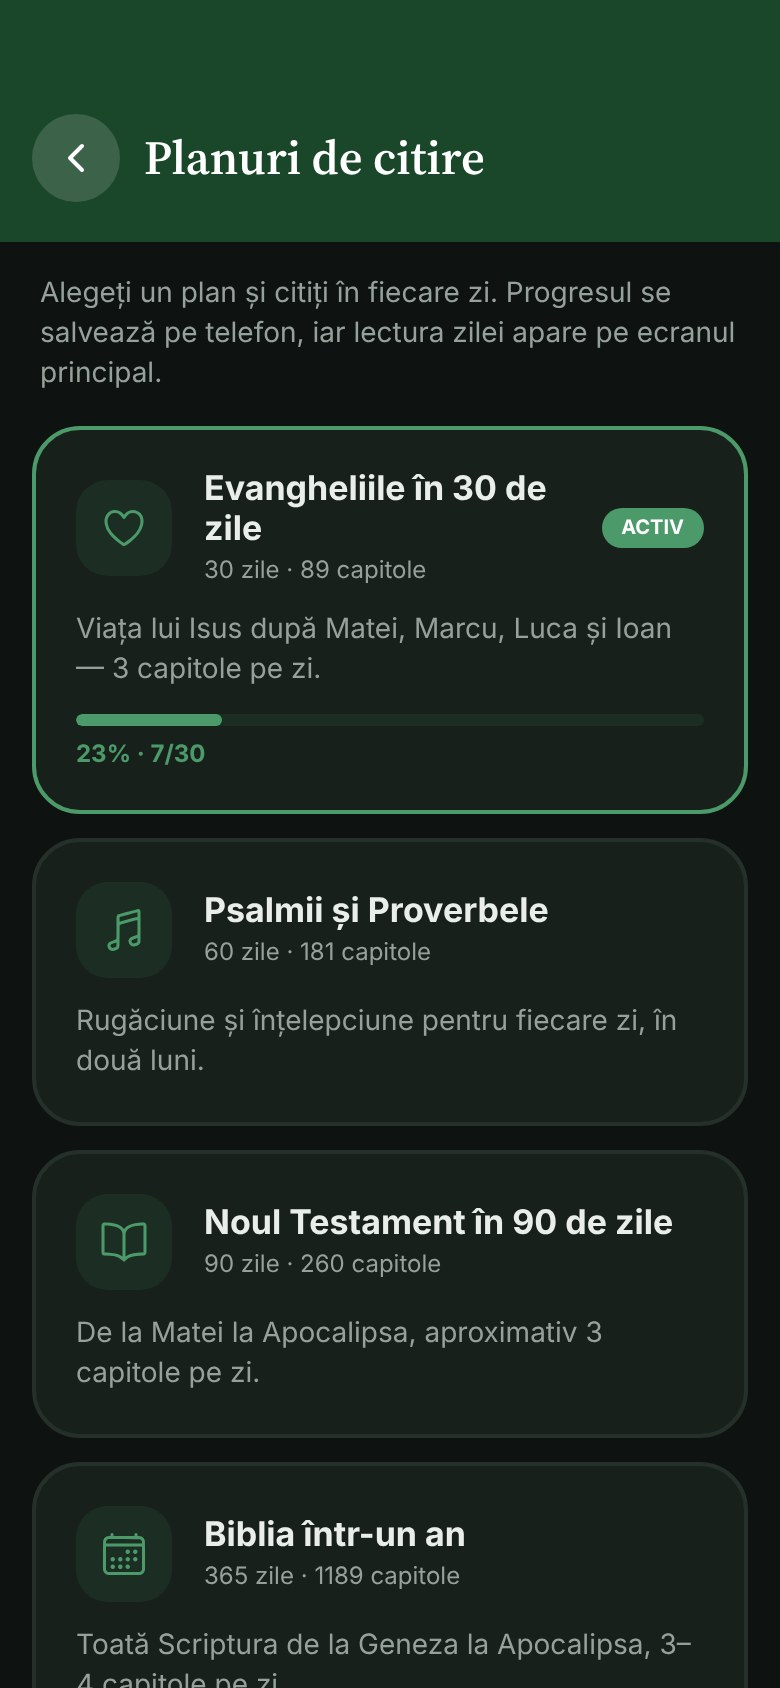
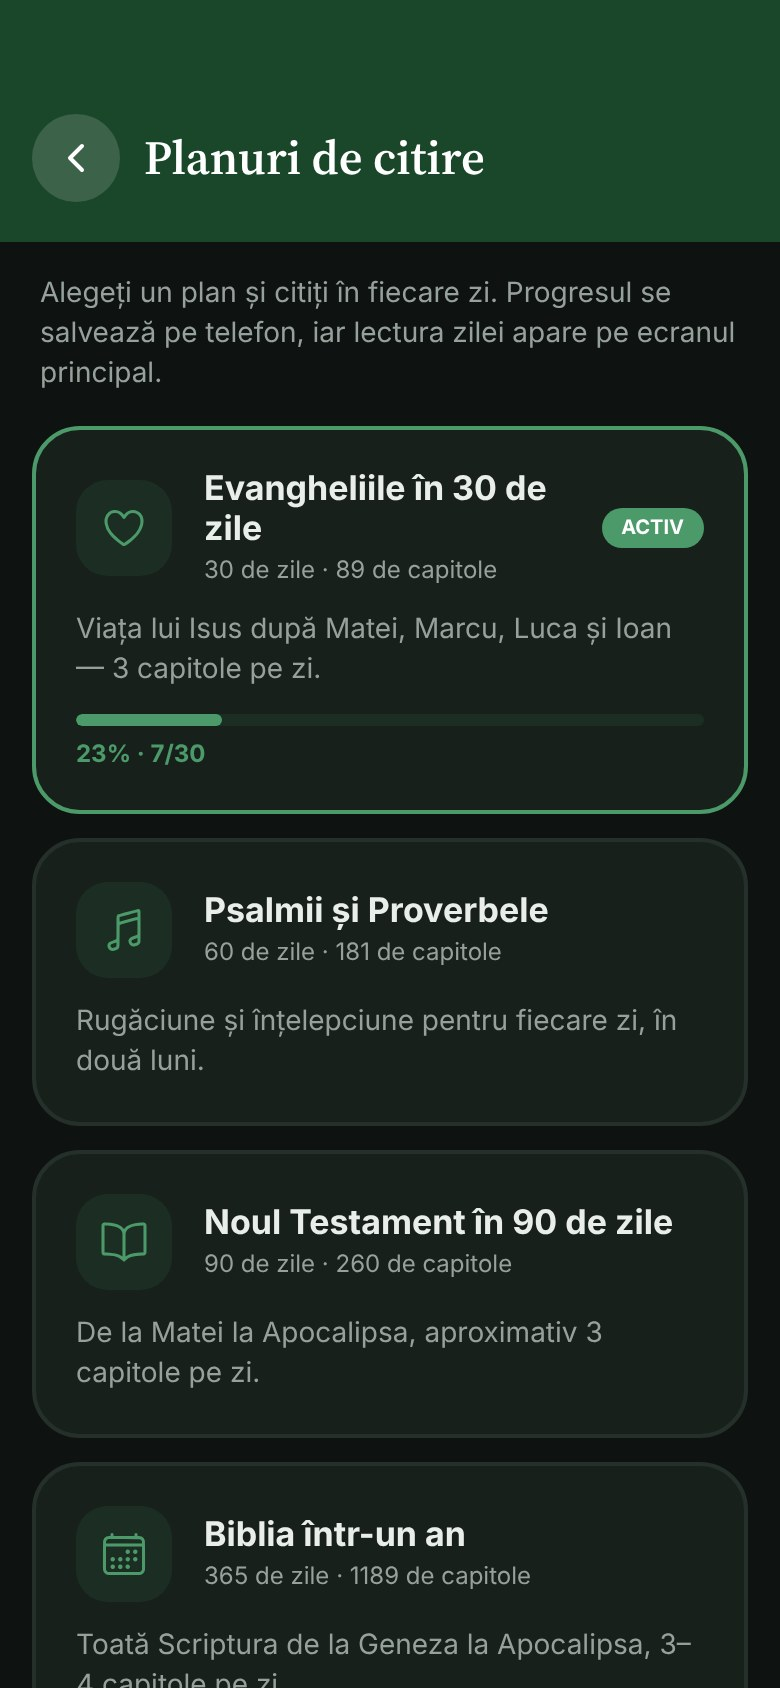
Reparații după verificarea redesign-ului: ecrane mici, rusă, „de” la numere
- Felicitarea se derulează pe ecranele mici sau cu text mărit (butonul nu mai iese din ecran);
  „Vezi realizările” nu mai deschide încă un profil peste cel deschis.
- Cererea de prietenie: când butoanele nu încap lângă nume (rusă, ecrane înguste), trec dedesubt.
- „Cerere trimisă” din listă se micșorează ea, nu numele.
- Realizările: 3 coloane pe telefoanele înguste, ca titlurile să nu se rupă la mijlocul cuvântului.
- Peretele: fără linia goală sub o cerere răspunsă pentru care nu s-a rugat nimeni.
- Profilul: spinner-ul de reîmprospătare deasupra antetului (iOS), rândul cu nickname se poate rupe.
- Româna: „25 de zile”, „22 de zile active”, „100 de persoane” (regula cu „de” în countLabel).
- Fără expo-splash-screen ecranul de start nu poate fi ținut: cât se încarcă fonturile se vede
  un ecran în culoarea lui.
- Capturile refăcute; regulile din PROMPT-AGENT.md spun acum de fonturi, Icon și text-on-primary.

diff --git a/components/AchievementCelebration.tsx b/components/AchievementCelebration.tsx
@@ -1,5 +1,5 @@
 import React, { useEffect, useRef, useState } from 'react';
-import { View, Text, TouchableOpacity, Modal, Animated, useWindowDimensions } from 'react-native';
+import { View, Text, TouchableOpacity, Modal, Animated, ScrollView, useWindowDimensions } from 'react-native';
 import AsyncStorage from '@react-native-async-storage/async-storage';
 import { useRouter } from 'expo-router';
 import { useSafeAreaInsets } from 'react-native-safe-area-context';
@@ -81,7 +81,7 @@ export default function AchievementCelebration() {
     markSeen(queue);
     setQueue([]);
     setClosed(0);
-    router.push('/profil');
+    router.navigate('/profil');
   };
 
   if (!current) return null;
@@ -92,7 +92,17 @@ export default function AchievementCelebration() {
   return (
     <Modal transparent animationType="fade" visible onRequestClose={close}>
       <ThemeScope>
-        <View className="flex-1 items-center px-6" style={{ backgroundColor: 'rgba(0,0,0,0.55)', paddingTop: Math.max(insets.top + 24, height * 0.2) }}>
+        {/* Pe ecranele înalte cardul stă sus (ca în planșe); pe cele mici sau cu text mărit se derulează, ca butonul să rămână la îndemână. */}
+        <ScrollView
+          style={{ flex: 1, backgroundColor: 'rgba(0,0,0,0.55)' }}
+          contentContainerStyle={{
+            flexGrow: 1,
+            alignItems: 'center',
+            paddingHorizontal: 24,
+            paddingTop: height >= 740 ? Math.max(insets.top + 24, height * 0.2) : insets.top + 24,
+            paddingBottom: insets.bottom + 24,
+          }}
+        >
           <Animated.View style={{ transform: [{ scale }], width: '100%', maxWidth: 400 }}>
             <View className="bg-card rounded-[32px] px-6 pt-7 pb-4 items-center">
               <Text className="text-muted font-ui-bold text-[11px] uppercase tracking-widest">{t('newAchievement')}</Text>
@@ -143,7 +153,7 @@ export default function AchievementCelebration() {
               )}
             </View>
           </Animated.View>
-        </View>
+        </ScrollView>
       </ThemeScope>
     </Modal>
   );

diff --git a/components/AchievementsGrid.tsx b/components/AchievementsGrid.tsx
@@ -1,5 +1,5 @@
 import React from 'react';
-import { View, Text } from 'react-native';
+import { View, Text, useWindowDimensions } from 'react-native';
 import Svg, { Circle } from 'react-native-svg';
 import { useLanguage } from '../i18n';
 import { useTheme } from '../lib/theme';
@@ -19,6 +19,9 @@ export default function AchievementsGrid({ stats, showClosest }: { stats?: Membe
   const items = ACHIEVEMENTS.map((a) => ({ a, p: progressOf(a, stats) }));
   const earned = items.filter((x) => x.p.earned).length;
   const closest = showClosest ? closestAchievement(stats) : null;
+  // Pe telefoanele înguste (360dp) 4 coloane ar rupe titluri ca „Неопалимая” la mijlocul cuvântului.
+  const { width } = useWindowDimensions();
+  const column = width < 370 ? '33.33%' : '25%';
 
   return (
     <View className="bg-card rounded-3xl border border-line p-5 mt-4">
@@ -53,9 +56,9 @@ export default function AchievementsGrid({ stats, showClosest }: { stats?: Membe
 
       <View className="flex-row flex-wrap mt-5 -mx-2" style={{ rowGap: 12 }}>
         {items.map(({ a, p }) => (
-          <View key={a.id} className="items-center px-0.5" style={{ width: '25%' }}>
+          <View key={a.id} className="items-center px-0.5" style={{ width: column }}>
             <Badge achievement={a} ratio={p.ratio} earned={p.earned} />
-            <Text className="text-ink font-ui-semibold text-[12px] leading-[15px] text-center mt-1.5" numberOfLines={2}>
+            <Text className="text-ink font-ui-semibold text-[12px] leading-[15px] text-center mt-1.5" numberOfLines={2} adjustsFontSizeToFit minimumFontScale={0.8}>
               {a.title[language]}
             </Text>
             {!p.earned && (

diff --git a/app/_layout.tsx b/app/_layout.tsx
@@ -1,6 +1,7 @@
 import '../global.css';
 import { useEffect } from 'react';
-import { SplashScreen, Stack } from 'expo-router';
+import { View } from 'react-native';
+import { Stack } from 'expo-router';
 import { useFonts } from 'expo-font';
 import { StatusBar } from 'expo-status-bar';
 import { SafeAreaProvider } from 'react-native-safe-area-context';
@@ -15,8 +16,6 @@ import SyncBridge from '../lib/sync';
 import { scheduleDailyVerse } from '../lib/notifications';
 import { FONT_FILES } from '../lib/fonts';
 
-// Ecranul de start rămâne până se încarcă fonturile, ca textul să nu sară de la fontul sistemului la Inter.
-SplashScreen.preventAutoHideAsync().catch(() => {});
 
 function AppStack() {
   const { colors, settings, loaded } = useTheme();
@@ -45,14 +44,10 @@ function AppStack() {
 
 export default function RootLayout() {
   const [fontsLoaded, fontError] = useFonts(FONT_FILES);
-  const ready = fontsLoaded || !!fontError;
 
-  useEffect(() => {
-    if (ready) SplashScreen.hideAsync().catch(() => {});
-  }, [ready]);
-
-  // Fonturile sunt în aplicație (nu din rețea); dacă totuși nu se încarcă, mergem mai departe cu cele ale sistemului.
-  if (!ready) return null;
+  // Cât se încarcă fonturile (sunt în aplicație, durează o clipă), un ecran în culoarea celui de start (app.json),
+  // ca textul să nu sară de la fontul sistemului la Inter. Dacă nu se încarcă, mergem mai departe cu cele ale sistemului.
+  if (!fontsLoaded && !fontError) return <View style={{ flex: 1, backgroundColor: '#1A472A' }} />;
 
   return (
     <SafeAreaProvider>

diff --git a/app/membri.tsx b/app/membri.tsx
@@ -207,11 +207,13 @@ function RequestRow({ profile, at }: { profile: Profile; at: string }) {
   const { language } = useLanguage();
   const router = useRouter();
   return (
-    <View className="bg-primary-light rounded-3xl flex-row items-center pl-3.5 pr-1.5 py-3">
+    // Când butoanele nu încap lângă nume (în rusă sau pe ecrane înguste), trec pe rândul următor, la dreapta.
+    <View className="bg-primary-light rounded-3xl flex-row flex-wrap items-center pl-3.5 pr-1.5 py-3" style={{ rowGap: 8 }}>
       <TouchableOpacity
         onPress={() => router.push({ pathname: '/profil', params: { id: profile.id } })}
         activeOpacity={0.75}
-        className="flex-1 flex-row items-center mr-2"
+        className="flex-row items-center mr-2"
+        style={{ flexGrow: 1, flexShrink: 1, flexBasis: 150 }}
       >
         <Avatar url={profile.avatar_url} name={fullName(profile)} size={44} />
         <View className="flex-1 ml-3">
@@ -223,7 +225,9 @@ function RequestRow({ profile, at }: { profile: Profile; at: string }) {
           </Text>
         </View>
       </TouchableOpacity>
-      <FriendButton userId={profile.id} compact />
+      <View className="ml-auto">
+        <FriendButton userId={profile.id} compact />
+      </View>
     </View>
   );
 }

diff --git a/app/profil.tsx b/app/profil.tsx
@@ -88,6 +88,8 @@ export default function ProfileScreen() {
             refreshing={refreshing}
             tintColor="white"
             colors={[colors.primary]}
+            // Pe iOS spinner-ul stă în spatele conținutului, iar antetul are un fundal verde peste el.
+            style={{ zIndex: 1 }}
             onRefresh={async () => {
               setRefreshing(true);
               await load();
@@ -103,7 +105,7 @@ export default function ProfileScreen() {
             <Avatar url={profile.avatar_url} name={fullName(profile)} size={AVATAR} tone="soft" />
           </View>
           <Text className="text-ink font-display-semibold text-[30px] leading-[38px] mt-2 text-center">{fullName(profile)}</Text>
-          <View className="flex-row items-center mt-1">
+          <View className="flex-row flex-wrap justify-center items-center mt-1 px-4">
             <Text className="text-primary font-ui-semibold text-[15px]">@{profile.nickname}</Text>
             <Text className="text-muted font-ui text-[15px] mx-2">·</Text>
             <Text className="text-muted font-ui text-[15px]">

diff --git a/app/perete.tsx b/app/perete.tsx
@@ -366,7 +366,10 @@ function PrayerCard({ prayer, me, onSupport, onAnswered, onDelete }: CardProps) 
         </View>
       )}
 
-      <View className="h-px mt-3.5" style={{ backgroundColor: answered ? colors.card : colors.line }} />
+      {/* Cererea răspunsă a altcuiva, pentru care nu s-a rugat nimeni, nu mai are nimic dedesubt. */}
+      {(!answered || mine || prayer.prayer_support.length > 0) && (
+        <View className="h-px mt-3.5" style={{ backgroundColor: answered ? colors.card : colors.line }} />
+      )}
 
       {answered ? (
         <>
@@ -395,6 +398,7 @@ function PrayerCard({ prayer, me, onSupport, onAnswered, onDelete }: CardProps) 
           <TouchableOpacity
             onPress={onSupport}
             activeOpacity={0.8}
+            hitSlop={4}
             className={`flex-row items-center h-[38px] px-4 rounded-full ${supported ? 'bg-primary' : 'bg-primary-light'}`}
           >
             <Icon name="praying-hands" size={16} color={supported ? colors.onPrimary : colors.primary} />

diff --git a/components/MemberRow.tsx b/components/MemberRow.tsx
@@ -38,7 +38,8 @@ export default function MemberRow({ profile, subtitle, streak, first, highlight,
     >
       {left}
       <Avatar url={profile.avatar_url} name={fullName(profile)} size={avatarSize} />
-      <View className="flex-1 ml-3">
+      {/* Numele păstrează măcar atât loc; pastila de alături (mai lungă în rusă) se micșorează ea. */}
+      <View className="flex-1 ml-3" style={{ minWidth: 88 }}>
         <View className="flex-row items-center">
           <Text className="text-ink font-ui-semibold text-[15px] flex-shrink" numberOfLines={1}>
             {fullName(profile)}
@@ -55,7 +56,7 @@ export default function MemberRow({ profile, subtitle, streak, first, highlight,
           <Text className="text-ink font-ui-semibold text-[16px] ml-1.5">{streak}</Text>
         </View>
       )}
-      {!!extra && <View className="ml-2">{extra}</View>}
+      {!!extra && <View className="ml-2 flex-shrink">{extra}</View>}
       {right ? (
         <View className="ml-2">{right}</View>
       ) : (

diff --git a/components/FriendButton.tsx b/components/FriendButton.tsx
@@ -83,11 +83,14 @@ export default function FriendButton({ userId, compact, stretch }: Props) {
           ])
         }
         activeOpacity={0.7}
+        hitSlop={compact ? 6 : 0}
         style={{ height: compact ? 30 : height }}
-        className={`rounded-full border border-line flex-row items-center justify-center ${compact ? 'px-3' : 'px-5'} ${stretch ? 'self-stretch' : ''}`}
+        className={`rounded-full border border-line flex-row items-center justify-center flex-shrink ${compact ? 'px-3' : 'px-5'} ${stretch ? 'self-stretch' : ''}`}
       >
         <Icon name="clock" size={compact ? 12 : 15} color={colors.muted} />
-        <Text className={`text-muted font-ui-medium ml-1.5 ${compact ? 'text-[12px]' : 'text-[14px]'}`}>{t('requestSent')}</Text>
+        <Text className={`text-muted font-ui-medium ml-1.5 flex-shrink ${compact ? 'text-[12px]' : 'text-[14px]'}`} numberOfLines={1}>
+          {t('requestSent')}
+        </Text>
       </TouchableOpacity>
     );
   }

diff --git a/lib/format.ts b/lib/format.ts
@@ -5,8 +5,13 @@ export const DAY_NAMES: Record<Language, string[]> = {
   ru: ['Воскресенье', 'Понедельник', 'Вторник', 'Среда', 'Четверг', 'Пятница', 'Суббота'],
 };
 
+/** În română, de la 20 în sus (dacă ultimele două cifre fac 0 sau trec de 19) numărul cere „de”: „25 de zile”, dar „15 zile”, „101 zile”. */
+export function roNeedsDe(n: number) {
+  return n >= 20 && (n % 100 === 0 || n % 100 >= 20);
+}
+
 function plural(lang: Language, n: number, ro: [string, string], ru: [string, string, string]) {
-  if (lang === 'ro') return `${n} ${n === 1 ? ro[0] : ro[1]}`;
+  if (lang === 'ro') return `${n} ${roNeedsDe(n) ? 'de ' : ''}${n === 1 ? ro[0] : ro[1]}`;
   const mod10 = n % 10;
   const mod100 = n % 100;
   const form = mod10 === 1 && mod100 !== 11 ? 0 : mod10 >= 2 && mod10 <= 4 && (mod100 < 12 || mod100 > 14) ? 1 : 2;

diff --git a/lib/achievements.ts b/lib/achievements.ts
@@ -65,8 +65,8 @@ export function closestAchievement(stats?: MemberStats | null) {
   return best;
 }
 
-/** În română, de la 20 în sus numărul cere „de”: „30 de zile”, dar „15 zile”. */
-const roCount = (n: number, word: string) => `${n}${n % 100 >= 20 || (n >= 100 && n % 100 === 0) ? ' de' : ''} ${word}`;
+/** În română, de la 20 în sus numărul cere „de”: „30 de zile”, dar „15 zile” (aceeași regulă ca roNeedsDe din format.ts; fișierele pure nu se importă între ele, ca să meargă direct cu Node). */
+const roCount = (n: number, word: string) => `${n}${n >= 20 && (n % 100 === 0 || n % 100 >= 20) ? ' de' : ''} ${word}`;
 
 const HINTS: Record<Metric, Record<Language, (value: number, goal: number) => string>> = {
   current_streak: { ro: (v, g) => `${v} din ${roCount(g, 'zile la rând')}`, ru: (v, g) => `${v} из ${g} дней подряд` },

diff --git a/lib/wall.ts b/lib/wall.ts
@@ -21,7 +21,8 @@ export function prayedSentence(lang: Language, total: number, includesMe: boolea
     return ro ? `Tu și încă ${others} v-ați rugat` : `Ты и ещё ${others} молились`;
   }
   if (total === 1) return ro ? 'O persoană s-a rugat' : 'Молился 1 человек';
-  if (ro) return `${total}${total % 100 >= 20 ? ' de' : ''} persoane s-au rugat`;
+  // De la 20 în sus, „de”: „21 de persoane” (regula din format.ts).
+  if (ro) return `${total}${total >= 20 && (total % 100 === 0 || total % 100 >= 20) ? ' de' : ''} persoane s-au rugat`;
   const mod10 = total % 10;
   const mod100 = total % 100;
   const word = mod10 >= 2 && mod10 <= 4 && (mod100 < 12 || mod100 > 14) ? 'человека' : 'человек';

diff --git a/docs/PROMPT-AGENT.md b/docs/PROMPT-AGENT.md
@@ -32,14 +32,16 @@ Lucrezi la aplicația bisericii „Betania” din `~/bisbetania` (GitHub cs1lyuh
   - fundal `bg-cream`, carduri `bg-card` cu `border border-line`
   - text `text-ink` / `text-muted`
   - accent `bg-primary` / `text-primary` / `bg-primary-light`
+  - textul de pe accent: `text-on-primary` / `colors.onPrimary` (alb ziua, închis noaptea), nu `text-white`
   - în stiluri inline folosește `colors.*` din `useTheme()`
-  - **Nicio culoare hardcodată**, cu excepția textului alb pe `bg-primary` și a flăcării seriei (`#F59E0B` / `#FFB347`).
+  - **Nicio culoare hardcodată**, cu excepția textului alb pe antetul `primaryDeep` și a flăcării seriei (`#F59E0B` / `#FFB347`).
 - **Cardurile:** `rounded-2xl`/`rounded-3xl`, `p-4`/`p-5`.
-- **Etichetele de secțiune:** `text-muted text-[11px] font-bold uppercase tracking-widest`.
+- **Etichetele de secțiune:** componenta `SectionLabel` (11, `font-ui-bold`, majuscule, spațiere largă, `muted`).
+- **Fonturile** (`lib/fonts.ts`): Inter cu `font-ui`, `font-ui-medium`, `font-ui-semibold`, `font-ui-bold`; Source Serif 4 cu `font-display` (versete), `font-display-italic`, `font-display-semibold` (titluri, nume, cifre). Greutatea e în familie: **nu** pune `font-bold`/`fontWeight` peste ele (pe Android revine fontul sistemului). Mărimile: text 15–16, secundar 12–13, etichete 11 (vezi `docs/design/REDESIGN-P2-P4-NOTE.md`).
 - **Componente existente:**
   - antetul paginilor: `ScreenHeader`
   - membri: `MemberRow`, `Avatar`, `FriendButton`
-- **Iconițele:** Ionicons. Verifică numele în glyphmap înainte să le folosești.
+- **Iconițele:** `components/Icon.tsx` (SVG în stilul Lucide; adaugă acolo ce lipsește). Ionicons doar în ecranele încă nerefăcute; verifică numele în glyphmap.
 - **Vibrațiile:** `tap()` la atingere, `success()` la reușită (din `lib/haptics`).
 - **Orice text din interfață** trece prin `t('cheie')`, cu `ro` și `ru` în `i18n/translations.ts`. Rusa trebuie să fie naturală; pentru plurale folosește `countLabel`.
 - **Comentariile din cod** sunt în română, scurte, și explică *de ce*.
